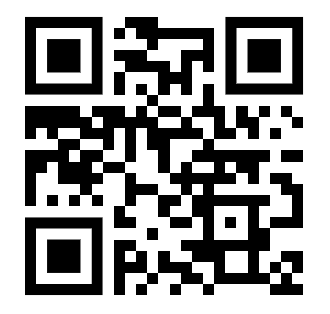
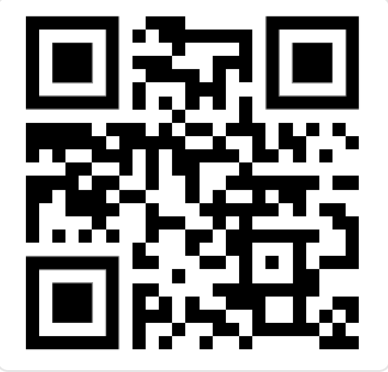
updated QR code Size

Changed region(s): [[0.0606, 0.0287, 0.9394, 0.9459], [0.0303, 0.9745, 0.9697, 1.0], [0.4848, 0.7739, 0.5152, 0.8025]]

diff --git a/style.css b/style.css
@@ -1190,7 +1190,7 @@ footer {
     background-image: url(QR-code-to-Golfer-Scorecards.png);
     background-size: cover;
     background-repeat: no-repeat;
-    width: 170px;
+    width: 174px;
     height: 170px;
     margin: 20px auto;
     border-radius: 8px;
@@ -1200,7 +1200,7 @@ footer {
     background-image: url(QR-code-to-Golfer-Scorecards.png);
         background-size: cover;
         background-repeat: no-repeat;
-        width: 120px;
+        width: 124px;
         height: 120px;
         margin: 20px 20px;
         border-radius: 8px;
